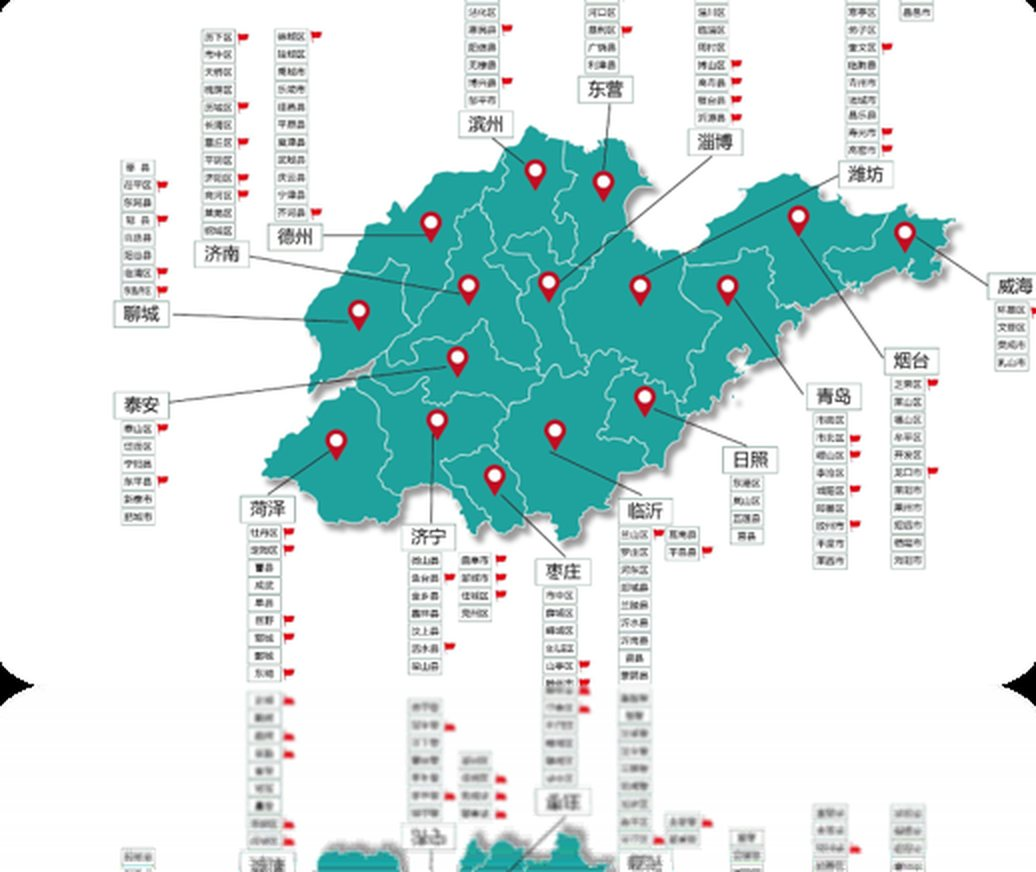
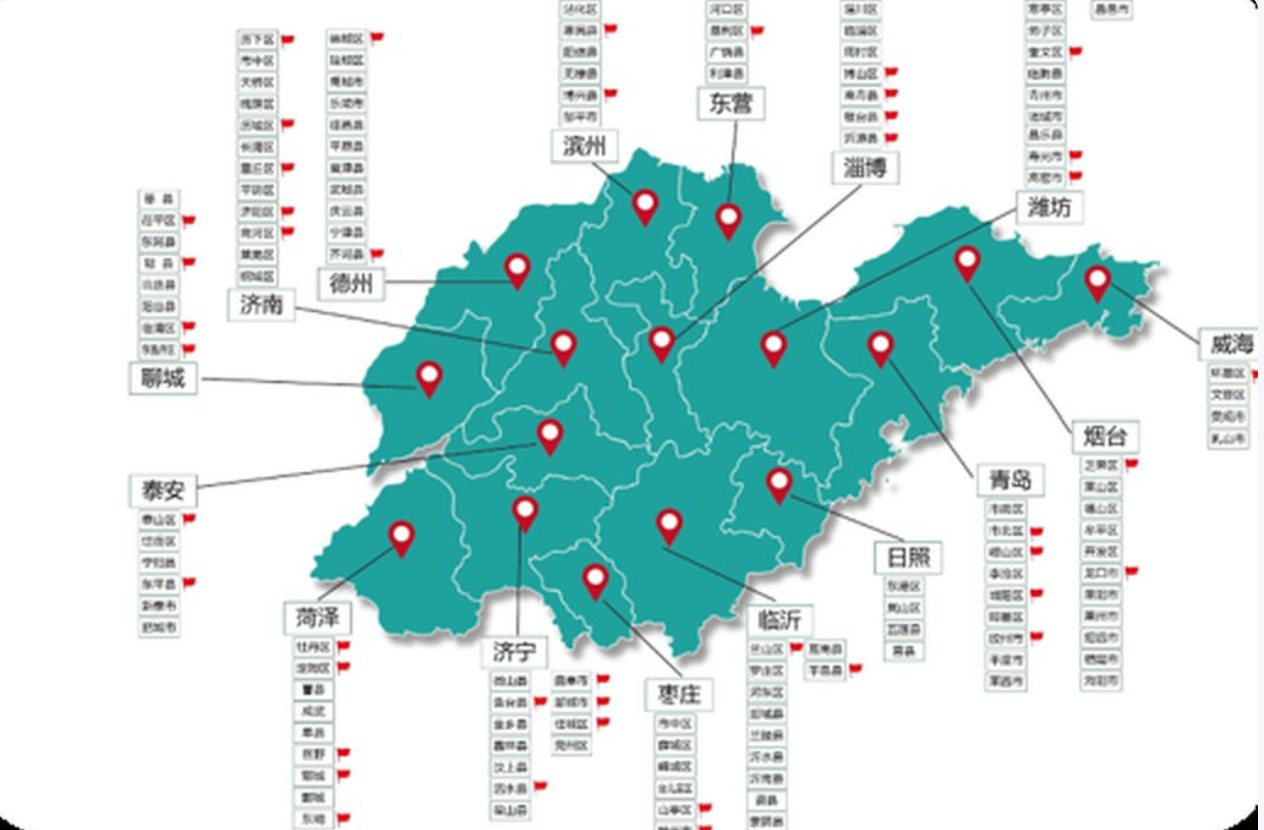
换山东覆盖图、折叠卡片加强、OSTA男性提示标红、PKP减速0.8x、环绕参数调整

diff --git a/full.html b/full.html
@@ -1149,6 +1149,28 @@ details.flow .vnote{margin:12px 0 0}
 @media (min-width:1024px){.outreach .og{grid-template-columns:repeat(3,1fr)}}
 </style>
 <style>
+/* 折叠卡片更明显 */
+details{position:relative}
+details > summary{list-style:none;cursor:pointer;padding:14px 44px 14px 15px;border-radius:12px;
+  border:1px solid rgba(0,229,192,.28);
+  background:linear-gradient(180deg,rgba(0,229,192,.09),rgba(0,229,192,.03));
+  color:var(--text);font-weight:700;font-size:14px;line-height:1.6;position:relative;
+  transition:border-color .2s,background .2s}
+details > summary::-webkit-details-marker{display:none}
+details > summary::after{content:"";position:absolute;right:15px;top:50%;width:8px;height:8px;
+  border-right:2px solid var(--accent);border-bottom:2px solid var(--accent);
+  transform:translateY(-70%) rotate(45deg);transition:transform .25s}
+details[open] > summary::after{transform:translateY(-30%) rotate(-135deg)}
+details > summary:hover{border-color:rgba(0,229,192,.5)}
+details[open] > summary{border-color:rgba(0,229,192,.45);
+  background:linear-gradient(180deg,rgba(0,229,192,.14),rgba(0,229,192,.05))}
+details + details{margin-top:10px}
+</style>
+<style>
+.hl-warn{color:#FF6B57;font-weight:800;background:rgba(255,107,87,.12);
+  padding:1px 5px;border-radius:5px;box-decoration-break:clone;-webkit-box-decoration-break:clone}
+</style>
+<style>
 .ov-role,.ov-stage{margin:26px 0 22px}
 .ov-hd{font-size:17px;font-weight:700;color:#EAF0F5;margin:0 0 8px}
 .ov-sub{font-size:13.5px;line-height:1.78;color:#9FB0BF;margin:0 0 14px}
@@ -1520,7 +1542,7 @@ body.fullpage{display:block;max-width:100%;padding:0;overflow-x:hidden}
 
         <div class="osta" id="osta">
       <div class="osta-hd">只记得一件事：OSTA 速算</div>
-      <p class="osta-sub">亚洲绝经后女性筛查研究的经验公式，只需年龄和体重两项：<b>指数 =（体重 kg − 年龄）× 0.2</b>，切点 −1 与 −4。<b>仅适用于绝经后女性</b>；男性请直接参考上方自测结果。</p>
+      <p class="osta-sub">亚洲绝经后女性筛查研究的经验公式，只需年龄和体重两项：<b>指数 =（体重 kg − 年龄）× 0.2</b>，切点 −1 与 −4。<b class="hl-warn">仅适用于绝经后女性，男性不能用</b>，请直接参考上方自测结果。</p>
       <div class="osta-row">
         <label>年龄<input id="ostaAge" type="number" inputmode="numeric" min="40" max="110" placeholder="65"><span>岁</span></label>
         <label>体重<input id="ostaWt" type="number" inputmode="decimal" min="25" max="160" placeholder="55"><span>kg</span></label>
@@ -2944,6 +2966,7 @@ body.fullpage{display:block;max-width:100%;padding:0;overflow-x:hidden}
 
     function start(){
       play && play.classList.add('hide');
+      try { vid.playbackRate = 0.8; } catch (e) {}   /* 放慢，给朗读留时间 */
       var pr = vid.play();
       if (pr && pr.catch) pr.catch(function(){ play && play.classList.remove('hide'); });
     }
@@ -3046,8 +3069,8 @@ body.fullpage{display:block;max-width:100%;padding:0;overflow-x:hidden}
         var xc = geo[i] != null ? geo[i] : 0;
         var t = (xc - viewCenter) / half;
         if (t > 1.35) t = 1.35; if (t < -1.35) t = -1.35;
-        var ac = Math.min(1, Math.abs(t));
-        var ky = 0.90 + 0.13 * ac * ac;      // 上下高度：中间 0.90，两侧 1.03（相差 1.14 倍）
+        var ac = Math.min(1, Math.abs(t) / 0.62);   // 以可见第一列为“边缘”
+        var ky = 0.84 + 0.18 * ac * ac;             // 中间 0.84、两侧 1.02
         var kx = 0.99 + 0.025 * ac;
         var ry = -t * 8;
         // 弧形：上下两行随位置上下偏移，行距保持不变
@@ -3623,7 +3646,7 @@ body.fullpage{display:block;max-width:100%;padding:0;overflow-x:hidden}
     try { window.speechSynthesis.cancel(); } catch (e) {}
     var u = new SpeechSynthesisUtterance(txt);
     u.lang = 'zh-CN';
-    u.rate = 1.45;                 /* 语速要跟上字幕节奏 */
+    u.rate = 1.3;                  /* 视频已放慢，语速略快即可 */
     if (zhVoice) u.voice = zhVoice;
     window.speechSynthesis.speak(u);
   }
